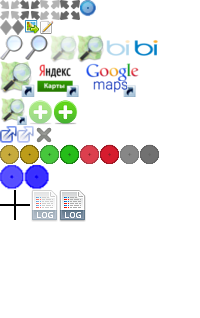
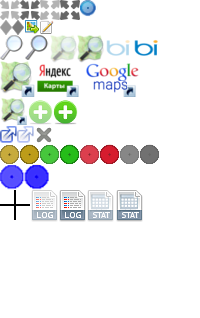
Logs and stats panel was moved to search container

Changed region(s): [[0.42, 0.5943, 0.72, 0.7075]]

diff --git a/uik_ru/static/css/main.css b/uik_ru/static/css/main.css
@@ -191,27 +191,52 @@ input.need-apply {
     float: right;
 }
 
-#signOutForm div.log {
-    width: 39px;
-    height: 39px;
+body div.stat-group {
     position: absolute;
-    top: 0px;
-    left: -46px;
+    left: 309px;
+    top: 142px;
+    background-color: #F5F5F5;
+    border: 1px solid #AFAFAF;
+    border-radius: 4px 4px 4px 4px;
+}
+
+body.searcher-collapsed div.stat-group {
+    top: 105px;
+    left: 3px;
+}
+
+div.stat-group div.log,
+div.stat-group div.stat {
+    width: 32px;
+    height: 36px;
+    margin: 2px;
     background-color: #ffffff;
     border: 1px solid #afafaf;
     cursor: pointer;
 }
 
-#signOutForm div.log span {
+div.stat-group div.log a,
+div.stat-group div.stat a {
     display: inline-block;
-    margin: 4px 0 0 5px;
+    margin: 2px 0 0 2px;
     width: 29px;
     height: 31px;
+}
+
+div.stat-group div.log a {
     background: url('../img/sm-icons.png') -30px -190px;
 }
 
-#signOutForm div.log:hover span {
+div.stat-group div.log:hover a {
     background: url('../img/sm-icons.png') -58px -190px;
+}
+
+div.stat-group div.stat a {
+    background: url('../img/sm-icons.png') -87px -190px;
+}
+
+div.stat-group div.stat:hover a {
+    background: url('../img/sm-icons.png') -116px -190px;
 }
 
 #searchContainer .title,
@@ -542,7 +567,7 @@ body.bing #manager div.icon.josm {
 #editorContainer {
     right: 5px;
     position: absolute;
-    top: 66px;
+    top: 51px;
     bottom: 5px;
     width: 310px;
     background-color: #ffffff;
